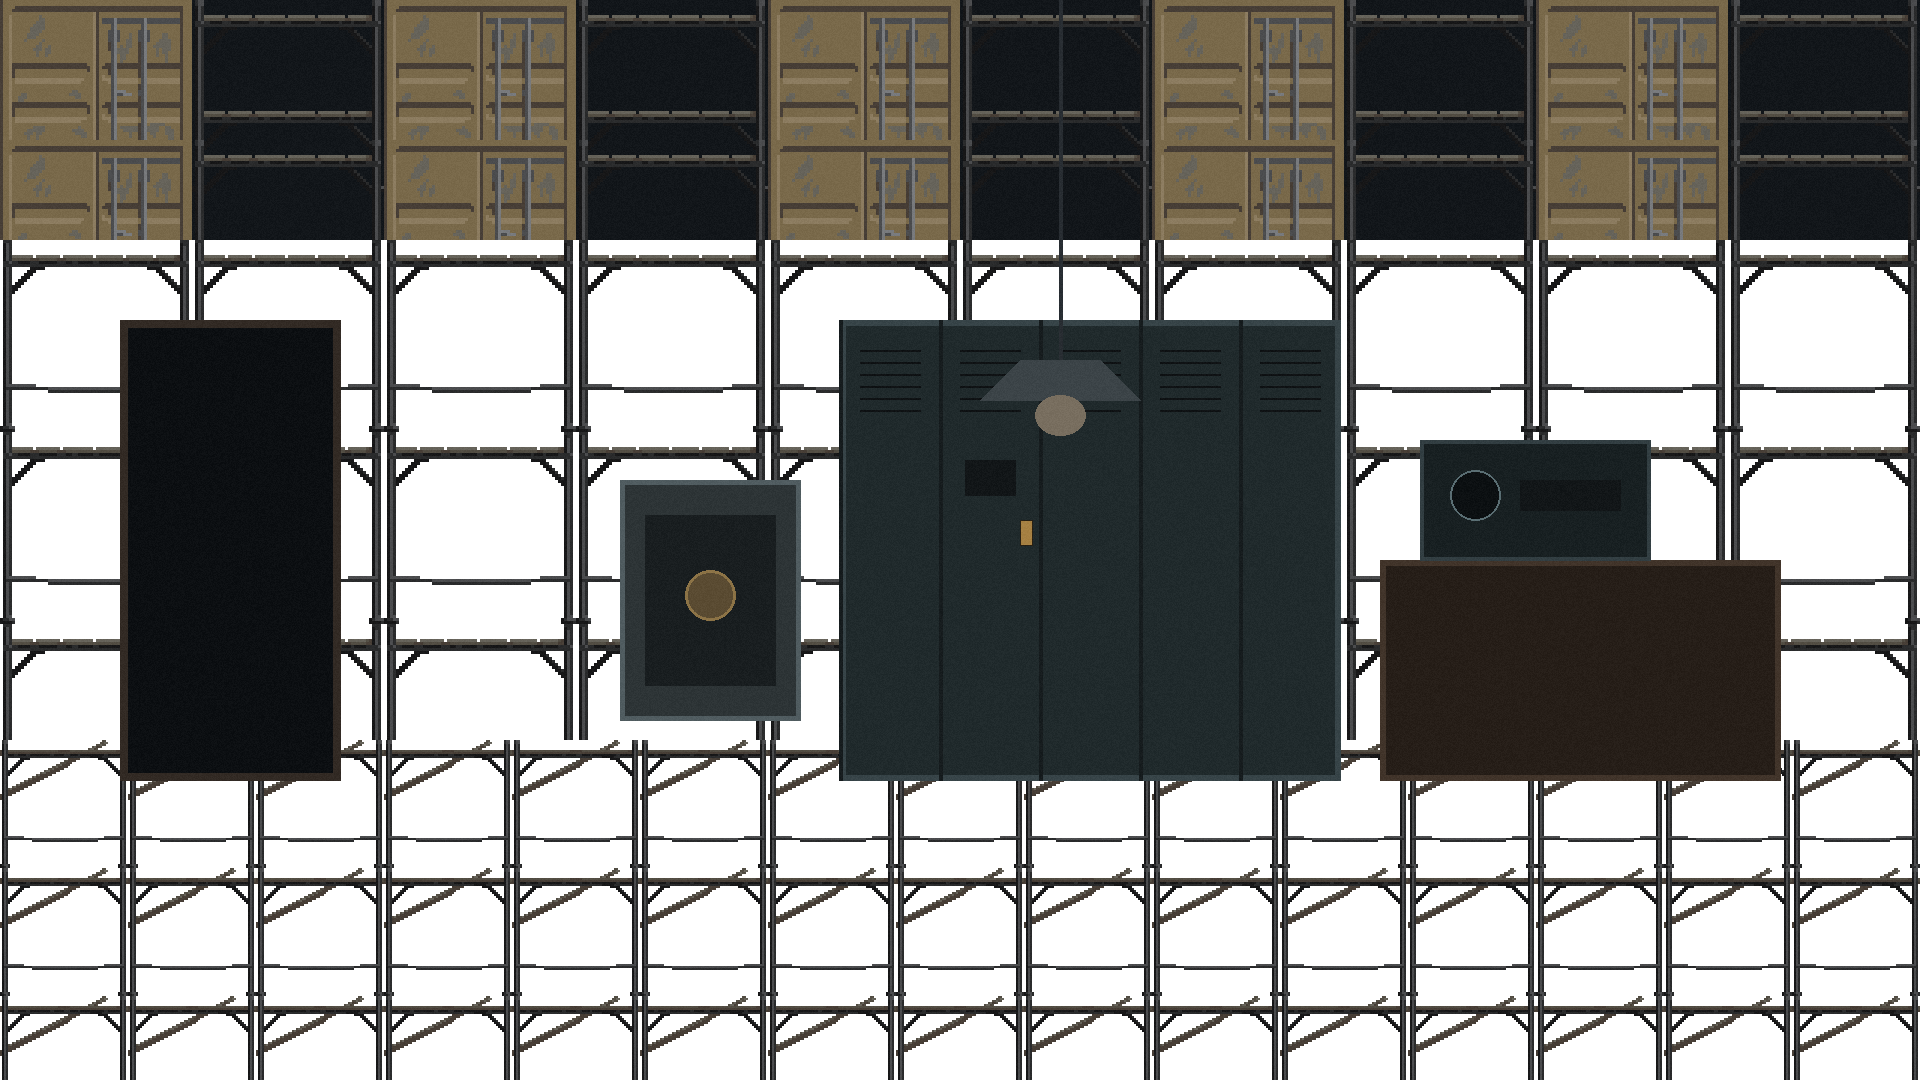
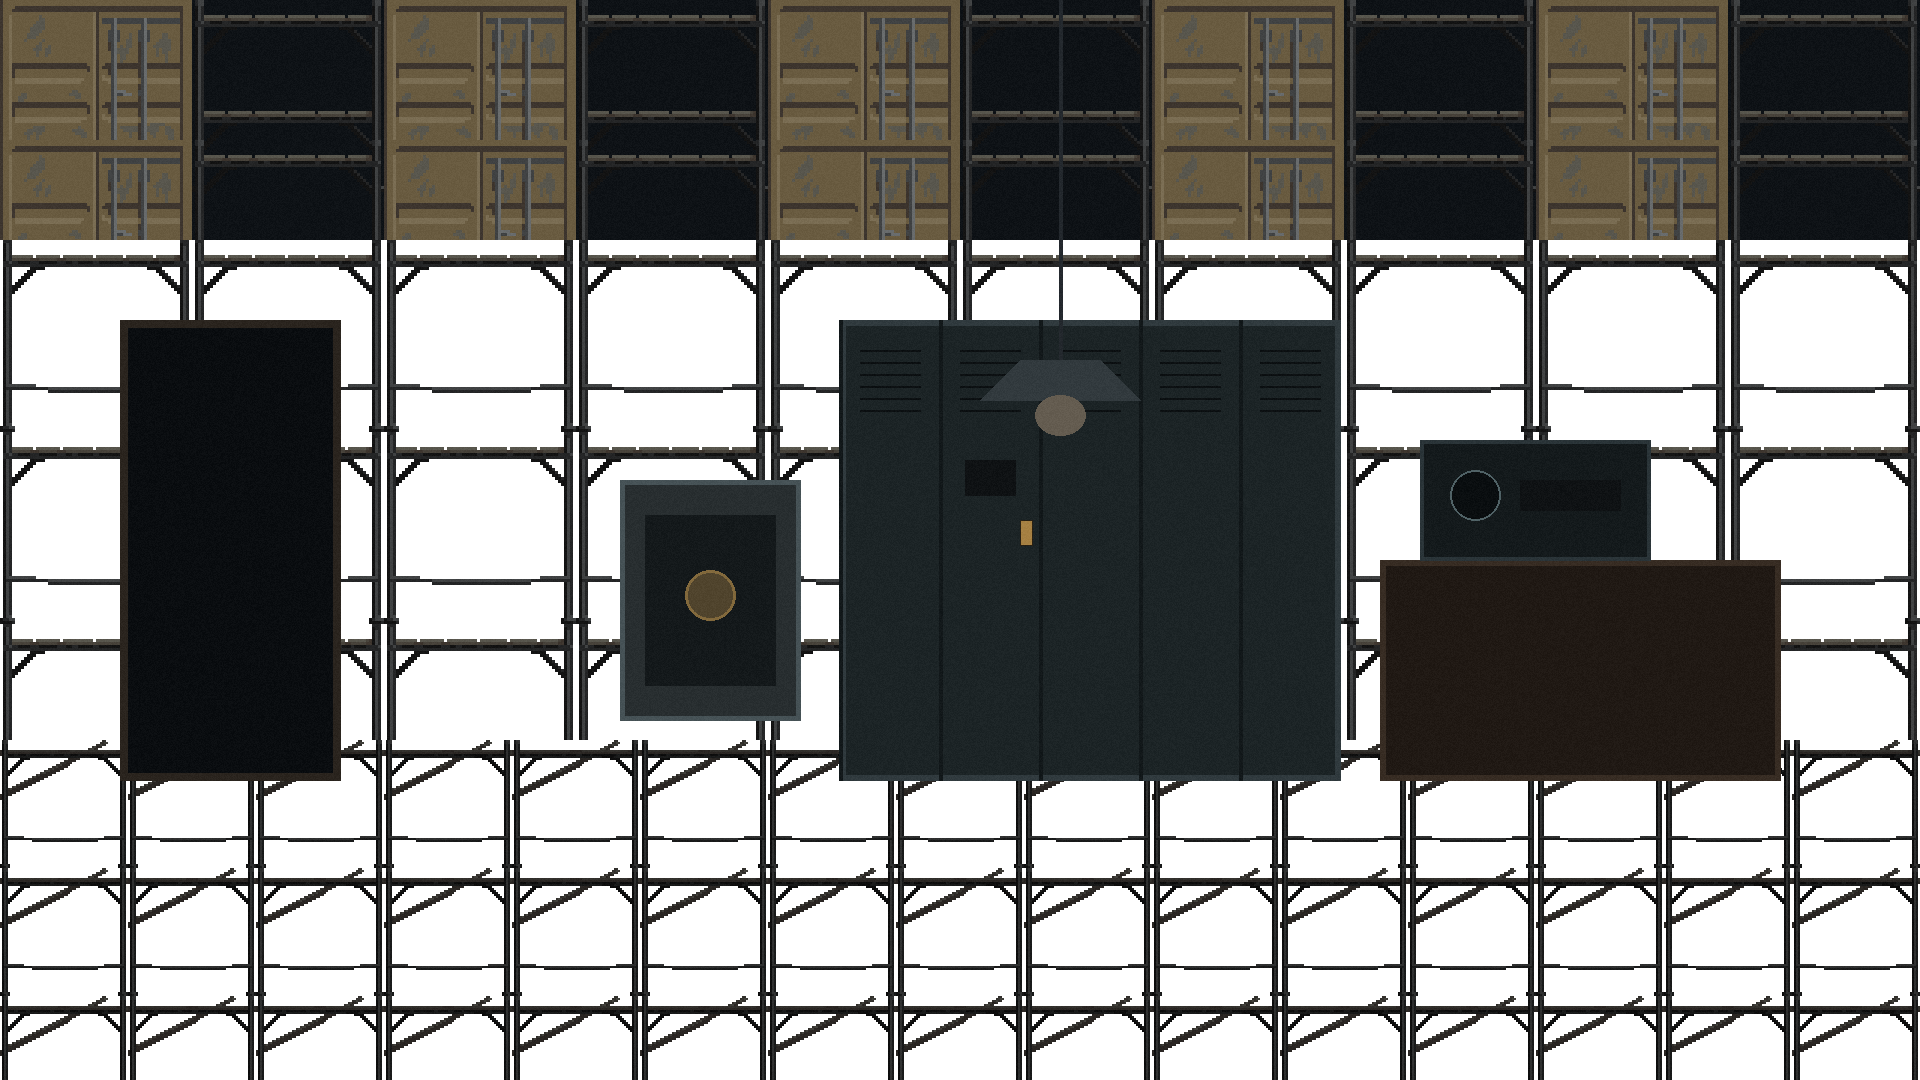
fix(art): harmonize cross-room contrast, wet reflection shader, and basalt reef bedrock

diff --git a/tools/adapt_stage_art.py b/tools/adapt_stage_art.py
@@ -189,19 +189,23 @@ def adapt_tavern():
     
     # Back wall wooden paneling
     wall_tex = Image.open(os.path.join(styloo_dir, "wall_bar.png")).convert("RGBA")
-    wall_tex = grade_image(wall_tex, shadow_mult=(0.85, 0.75, 0.65), mid_tint=(1.05, 0.95, 0.85), contrast=1.15, sat=0.9)
+    wall_tex = grade_image(wall_tex, shadow_mult=(0.58, 0.48, 0.4), mid_tint=(0.78, 0.68, 0.58), contrast=1.2, sat=0.85)
     wall_tile = wall_tex.resize((128, 128), Image.NEAREST)
     for wy in range(0, 760, 128):
         for wx in range(0, 1920, 128):
             canvas.paste(wall_tile, (wx, wy))
             
-    # Wooden Tavern floor
-    floor_tex = Image.open(os.path.join(styloo_dir, "floor_bar.png")).convert("RGBA")
-    floor_tex = grade_image(floor_tex, shadow_mult=(0.8, 0.7, 0.6), mid_tint=(1.0, 0.9, 0.8), contrast=1.15, sat=0.85)
-    floor_tile = floor_tex.resize((128, 128), Image.NEAREST)
-    for fy in range(740, 1080, 128):
-        for fx in range(0, 1920, 128):
-            canvas.paste(floor_tile, (fx, fy))
+    # Dark aged oak tavern floor (Y = 740 to 1080)
+    # Match Office's warm dark aged timber floor
+    draw = ImageDraw.Draw(canvas)
+    draw.rectangle([(0, 740), (1920, 1080)], fill=(34, 26, 20, 255))
+    for fy in range(740, 1080, 28):
+        # Floor plank seam
+        draw.line([(0, fy), (1920, fy)], fill=(20, 15, 11, 255), width=3)
+        draw.line([(0, fy + 1), (1920, fy + 1)], fill=(48, 36, 28, 255), width=1)
+        # Staggered plank joints
+        for fx in range((fy * 67) % 200, 1920, 260):
+            draw.line([(fx, fy), (fx, fy + 28)], fill=(18, 13, 9, 255), width=2)
             
     # Ceiling beams
     beam = Image.open(os.path.join(styloo_dir, "beam.png")).convert("RGBA")
@@ -403,13 +407,13 @@ def adapt_boathouse():
     wh_v1 = Image.open(os.path.join(actg_dir, "warehouse.png")).convert("RGBA")
     
     for state, powered in [("dim", False), ("powered", True)]:
-        canvas = make_canvas(1920, 1080, (18, 22, 26, 255) if not powered else (28, 32, 34, 255))
+        canvas = make_canvas(1920, 1080, (14, 18, 22, 255) if not powered else (22, 26, 28, 255))
         draw = ImageDraw.Draw(canvas)
         
         # Corrugated iron & timber wall background
-        mult = 1.0 if not powered else 1.25
-        sh_mult = (0.5 * mult, 0.55 * mult, 0.65 * mult)
-        graded_v2 = grade_image(wh_v2, shadow_mult=sh_mult, mid_tint=(0.75 * mult, 0.8 * mult, 0.85 * mult), contrast=1.15, sat=0.7)
+        mult = 1.0 if not powered else 1.22
+        sh_mult = (0.35 * mult, 0.40 * mult, 0.48 * mult)
+        graded_v2 = grade_image(wh_v2, shadow_mult=sh_mult, mid_tint=(0.55 * mult, 0.60 * mult, 0.65 * mult), contrast=1.2, sat=0.7)
         
         # Industrial structural beams & roof trusses
         truss = graded_v2.crop((0, 0, 128, 64)).resize((384, 192), Image.NEAREST)
@@ -425,52 +429,53 @@ def adapt_boathouse():
                 
         # Heavy timber dock / warehouse concrete plank floor (Y = 740 to 1080)
         floor_tile = graded_v2.crop((0, 64, 64, 128)).resize((128, 128), Image.NEAREST)
+        floor_tile = grade_image(floor_tile, shadow_mult=(0.4, 0.42, 0.46), mid_tint=(0.58, 0.6, 0.64), contrast=1.15, sat=0.6)
         for fy in range(740, 1080, 128):
             for fx in range(0, 1920, 128):
                 canvas.paste(floor_tile, (fx, fy))
                 
         # Left: Pier exit door (DoorBack at 365, 790)
-        draw.rectangle([(120, 320), (340, 780)], fill=(12, 15, 18, 255), outline=(50, 42, 36, 255), width=8)
+        draw.rectangle([(120, 320), (340, 780)], fill=(10, 13, 16, 255), outline=(42, 36, 30, 255), width=8)
         
         # Service Lockers 317 (ServiceLockers hotspot at 910, 800)
-        draw.rectangle([(840, 320), (1340, 780)], fill=(32, 42, 44, 255), outline=(55, 68, 72, 255), width=6)
+        draw.rectangle([(840, 320), (1340, 780)], fill=(28, 36, 38, 255), outline=(48, 58, 62, 255), width=6)
         for lkx in range(840, 1340, 100):
-            draw.line([(lkx, 320), (lkx, 780)], fill=(22, 28, 30, 255), width=4)
+            draw.line([(lkx, 320), (lkx, 780)], fill=(18, 24, 26, 255), width=4)
             # Locker vent louvers
             for vy in range(350, 420, 12):
-                draw.line([(lkx + 20, vy), (lkx + 80, vy)], fill=(15, 18, 20, 255), width=2)
+                draw.line([(lkx + 20, vy), (lkx + 80, vy)], fill=(12, 16, 18, 255), width=2)
             # Stencil "317" on second locker
             if lkx == 940:
-                draw.rectangle([(lkx + 25, 460), (lkx + 75, 495)], fill=(18, 22, 24, 255))
+                draw.rectangle([(lkx + 25, 460), (lkx + 75, 495)], fill=(15, 18, 20, 255))
                 # Brass latch
                 draw.rectangle([(lkx + 80, 520), (lkx + 92, 545)], fill=(PALETTE["aged_brass"] if not powered else (210, 175, 95)), outline=(40, 32, 20, 255))
                 
         # Fuse Box / Electrical Panel (FuseBox hotspot at 620, 800)
-        fuse_fill = (45, 52, 54, 255) if not powered else (55, 65, 68, 255)
-        draw.rectangle([(620, 480), (800, 720)], fill=fuse_fill, outline=(80, 92, 96, 255), width=5)
-        draw.rectangle([(645, 515), (775, 685)], fill=(25, 30, 32, 255))
+        fuse_fill = (40, 46, 48, 255) if not powered else (50, 60, 62, 255)
+        draw.rectangle([(620, 480), (800, 720)], fill=fuse_fill, outline=(70, 82, 86, 255), width=5)
+        draw.rectangle([(645, 515), (775, 685)], fill=(20, 25, 27, 255))
         # Circular fuse socket
-        socket_color = (90, 75, 50, 255) if not powered else (240, 180, 70, 255)
-        draw.ellipse([(685, 570), (735, 620)], fill=socket_color, outline=(140, 115, 70, 255), width=3)
+        socket_color = (80, 68, 45, 255) if not powered else (240, 180, 70, 255)
+        draw.ellipse([(685, 570), (735, 620)], fill=socket_color, outline=(130, 105, 60, 255), width=3)
         if powered:
             # Indicator pilot light glow
             draw.ellipse([(700, 525), (720, 545)], fill=(255, 80, 50, 255))
             
         # Workbench / Marine Radio / Winch Launch Ramp on Right (X = 1400 to 1920)
-        draw.rectangle([(1380, 560), (1780, 780)], fill=(38, 30, 24, 255), outline=(65, 52, 42, 255), width=6)
+        draw.rectangle([(1380, 560), (1780, 780)], fill=(32, 25, 20, 255), outline=(55, 44, 35, 255), width=6)
         # Marine radio console
-        draw.rectangle([(1420, 440), (1650, 560)], fill=(24, 32, 34, 255), outline=(50, 62, 66, 255), width=4)
+        draw.rectangle([(1420, 440), (1650, 560)], fill=(20, 26, 28, 255), outline=(42, 52, 56, 255), width=4)
         # Dial tuner
-        draw.ellipse([(1450, 470), (1500, 520)], fill=(12, 16, 18, 255), outline=(90, 110, 115, 255), width=2)
-        draw.rectangle([(1520, 480), (1620, 510)], fill=(18, 22, 24, 255))
+        draw.ellipse([(1450, 470), (1500, 520)], fill=(10, 14, 16, 255), outline=(80, 98, 102, 255), width=2)
+        draw.rectangle([(1520, 480), (1620, 510)], fill=(15, 18, 20, 255))
         if powered:
             # Backlit frequency display glow
             draw.rectangle([(1525, 485), (1615, 505)], fill=(60, 180, 130, 200))
             
         # Industrial overhead light fixture (MainLight at 1060, 430)
-        draw.line([(1060, 0), (1060, 360)], fill=(40, 45, 50, 255), width=4)
-        draw.polygon([(980, 400), (1140, 400), (1100, 360), (1020, 360)], fill=(60, 68, 72, 255))
-        bulb_color = (120, 110, 95, 255) if not powered else (255, 240, 180, 255)
+        draw.line([(1060, 0), (1060, 360)], fill=(35, 40, 45, 255), width=4)
+        draw.polygon([(980, 400), (1140, 400), (1100, 360), (1020, 360)], fill=(50, 58, 62, 255))
+        bulb_color = (100, 92, 80, 255) if not powered else (255, 240, 180, 255)
         draw.ellipse([(1035, 395), (1085, 435)], fill=bulb_color)
         
         canvas = add_dither_noise(canvas, 4)
@@ -523,35 +528,38 @@ def adapt_reef():
     
     # Magic Cliffs Tileset: Construct the foreground cyclopean basalt reef platform
     cliffs_tiles = Image.open(os.path.join(cliffs_dir, "tileset.png")).convert("RGBA")
-    cliffs_tiles = grade_image(cliffs_tiles, shadow_mult=(0.35, 0.42, 0.5), mid_tint=(0.5, 0.6, 0.68), highlight_mult=(0.55, 0.85, 0.75), contrast=1.3, sat=0.65)
+    cliffs_tiles = grade_image(cliffs_tiles, shadow_mult=(0.32, 0.40, 0.48), mid_tint=(0.45, 0.55, 0.62), highlight_mult=(0.50, 0.75, 0.68), contrast=1.3, sat=0.65)
     
-    rock_top = cliffs_tiles.crop((16, 16, 64, 64)).resize((128, 128), Image.NEAREST)
-    rock_body = cliffs_tiles.crop((16, 64, 64, 112)).resize((128, 128), Image.NEAREST)
-    rock_spire = cliffs_tiles.crop((64, 16, 112, 112)).resize((160, 320), Image.NEAREST)
+    rock_body = cliffs_tiles.crop((432, 64, 480, 112)).resize((96, 96), Image.NEAREST)
+    rock_pillar = cliffs_tiles.crop((464, 48, 528, 144)).resize((192, 288), Image.NEAREST)
+    rock_cap = cliffs_tiles.crop((600, 60, 650, 100)).resize((128, 102), Image.NEAREST)
     
-    # Jagged sea spires flanking the platform
-    canvas.paste(rock_spire, (-20, 420), rock_spire)
-    canvas.paste(rock_spire, (1740, 390), rock_spire)
+    # Bedrock platform base (Y = 680 to 1080)
+    draw = ImageDraw.Draw(canvas)
+    draw.rectangle([(0, 680), (1920, 1080)], fill=(14, 20, 24, 255))
     
-    # Central ancient stone megaliths / mnemonic altar structure (X = 650 to 1150)
-    for ry in range(720, 1080, 128):
-        for rx in range(0, 1920, 128):
+    for ry in range(700, 1080, 96):
+        for rx in range(0, 1920, 96):
             canvas.paste(rock_body, (rx, ry))
             
-    # Surface cap with ancient worn stone edges
-    for rx in range(0, 1920, 128):
-        canvas.paste(rock_top, (rx, 700), rock_top)
+    # Surface cap along top reef rim (Y = 660)
+    for rx in range(0, 1920, 120):
+        canvas.paste(rock_cap, (rx, 650), rock_cap)
         
+    # Flanking jagged cyclopean basalt spires
+    canvas.paste(rock_pillar, (-20, 420), rock_pillar)
+    pillar_right = ImageOps.mirror(rock_pillar)
+    canvas.paste(pillar_right, (1740, 390), pillar_right)
+    
     # Submerged non-human geometric monoliths in the background
-    draw = ImageDraw.Draw(canvas)
     # Ancient basalt obelisks jutting from deep sea
-    draw.polygon([(780, 460), (840, 320), (880, 460)], fill=(20, 28, 32, 255), outline=(35, 48, 52, 255), width=4)
-    draw.polygon([(1020, 480), (1070, 360), (1110, 480)], fill=(18, 25, 29, 255), outline=(32, 44, 48, 255), width=4)
+    draw.polygon([(780, 460), (840, 320), (880, 460)], fill=(16, 22, 26, 255), outline=(28, 38, 42, 255), width=4)
+    draw.polygon([(1020, 480), (1070, 360), (1110, 480)], fill=(14, 20, 24, 255), outline=(25, 34, 38, 255), width=4)
     
     # Sickly bioluminescent sea foam and phosphorescence surging around reef base
     for y in range(860, 1080, 6):
-        alpha = int(70 * math.sin((y - 860) / 220.0 * math.pi))
-        draw.line([(0, y), (1920, y)], fill=(32, 110, 85, alpha))
+        alpha = int(60 * math.sin((y - 860) / 220.0 * math.pi))
+        draw.line([(0, y), (1920, y)], fill=(28, 95, 75, alpha))
         
     canvas = add_dither_noise(canvas, 4)
     canvas.save(os.path.join(out_dir, "reef_production_bg.png"), optimize=True)
